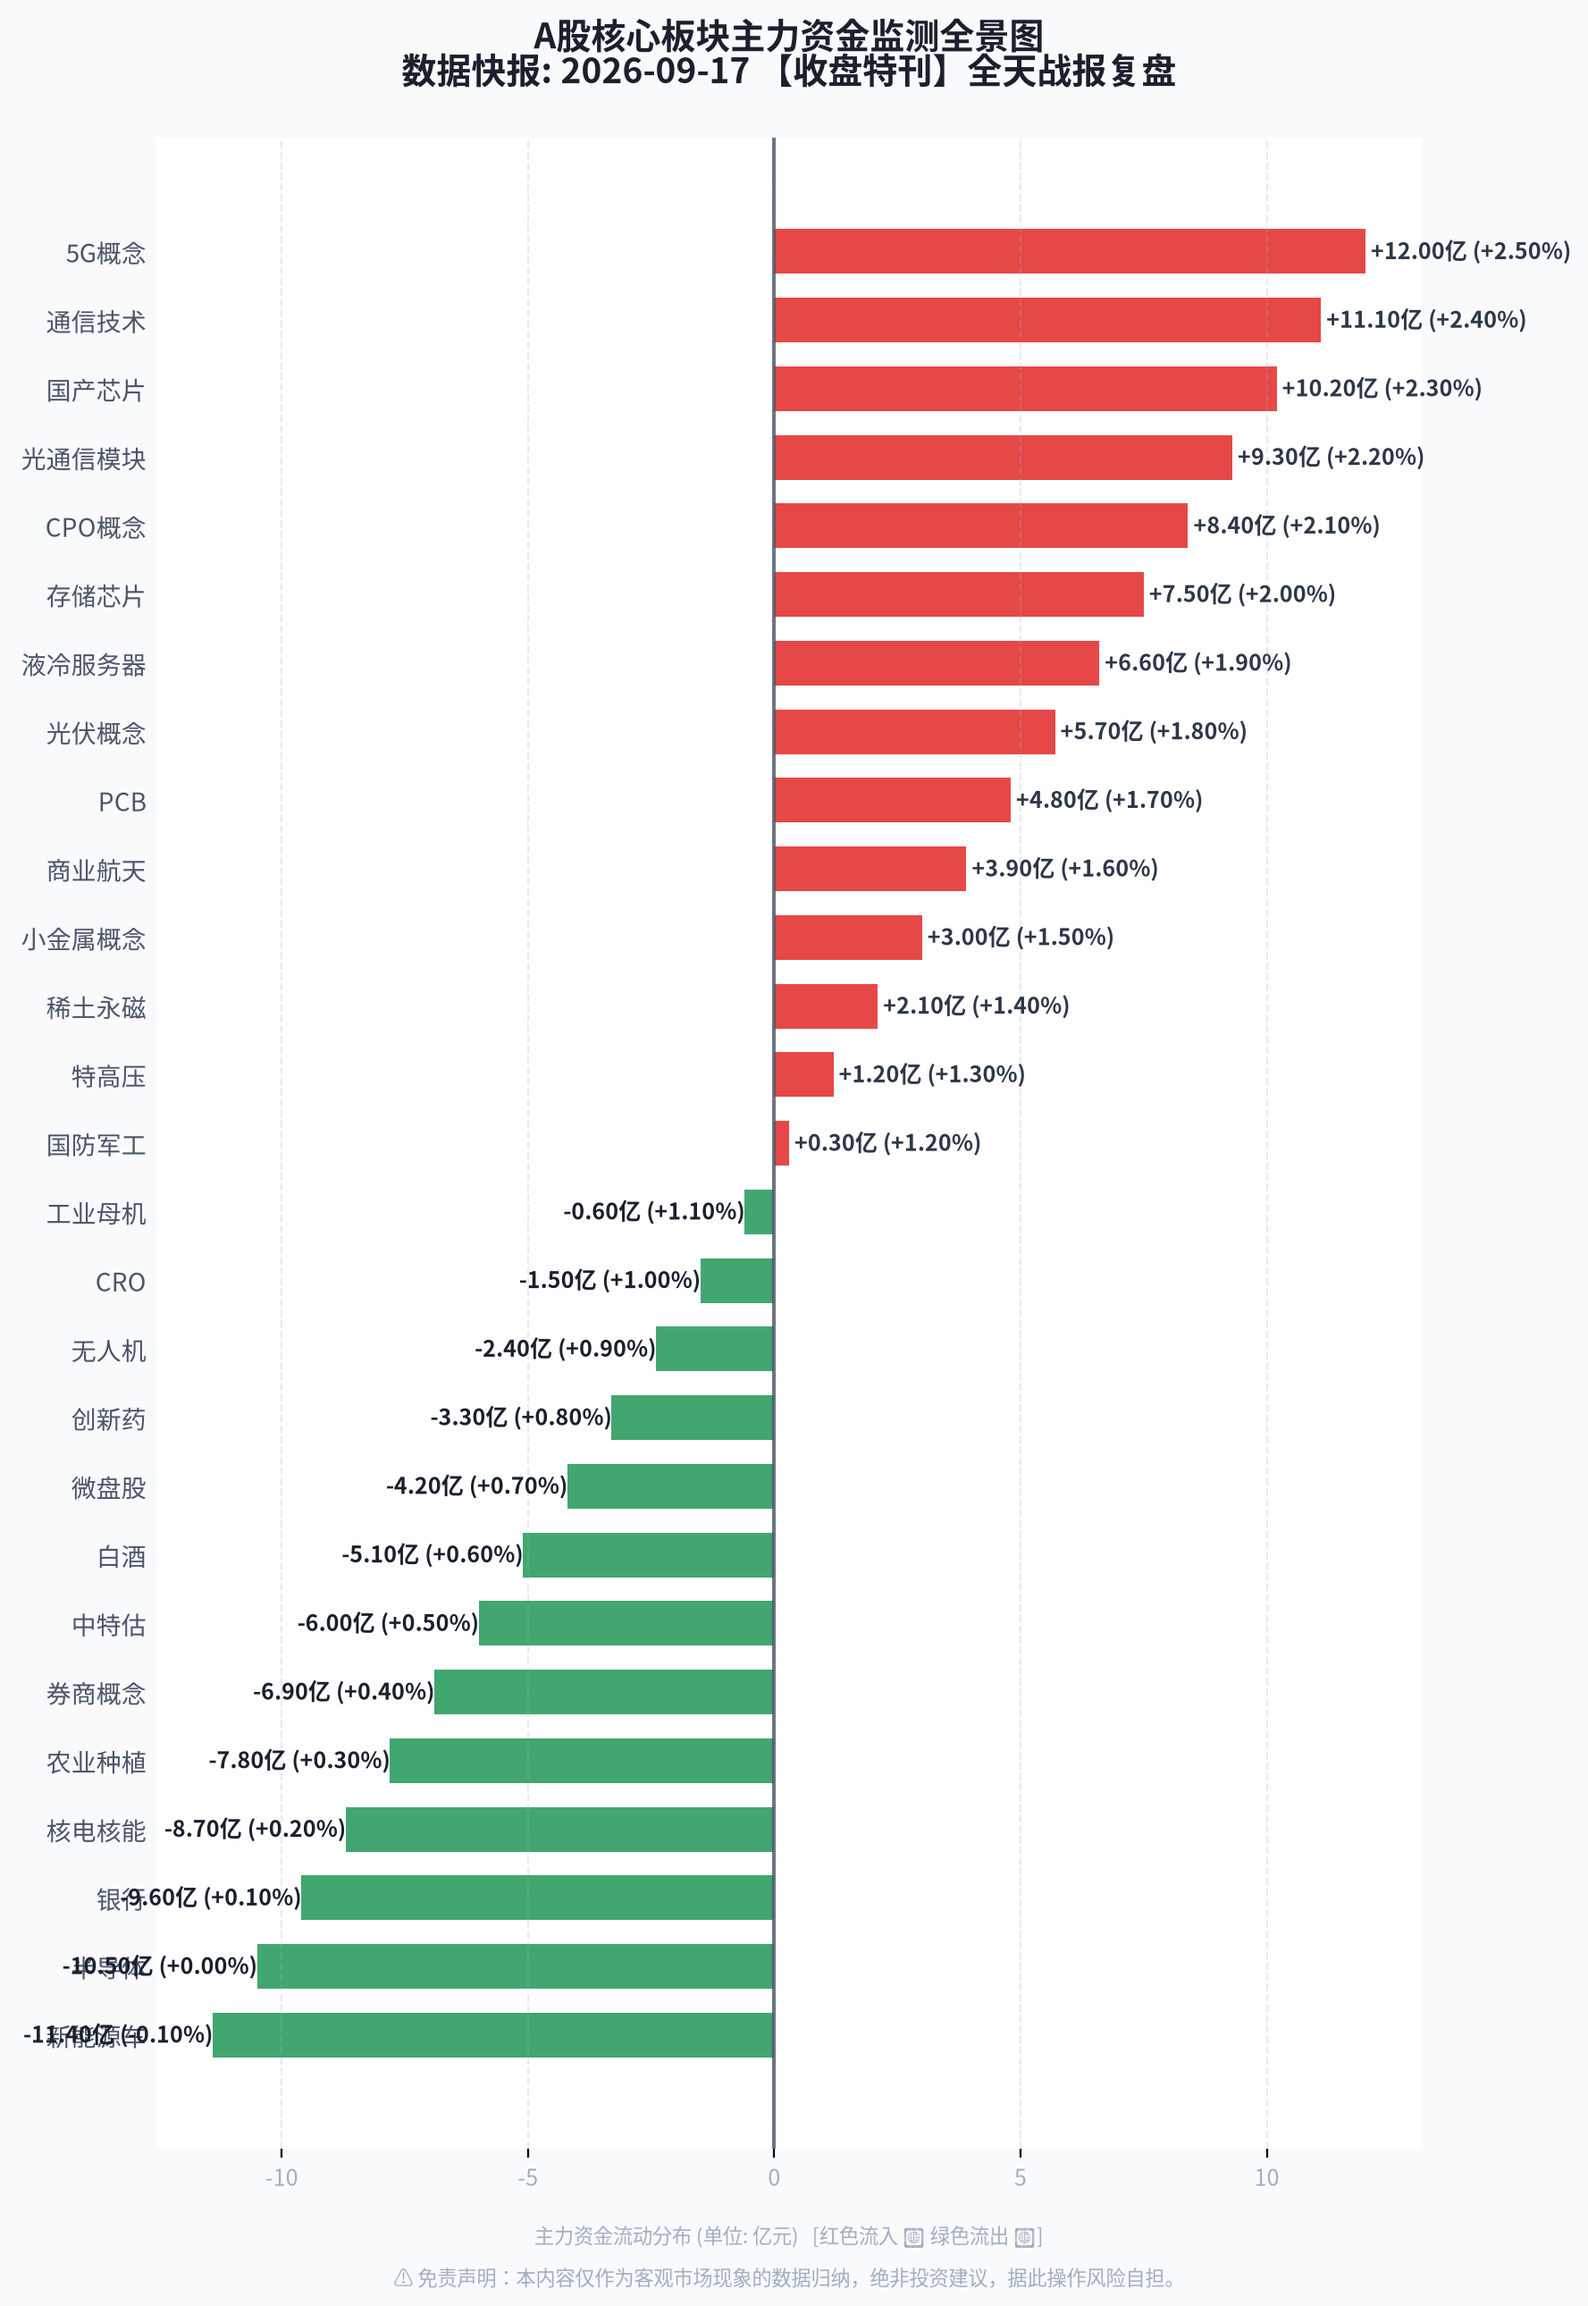
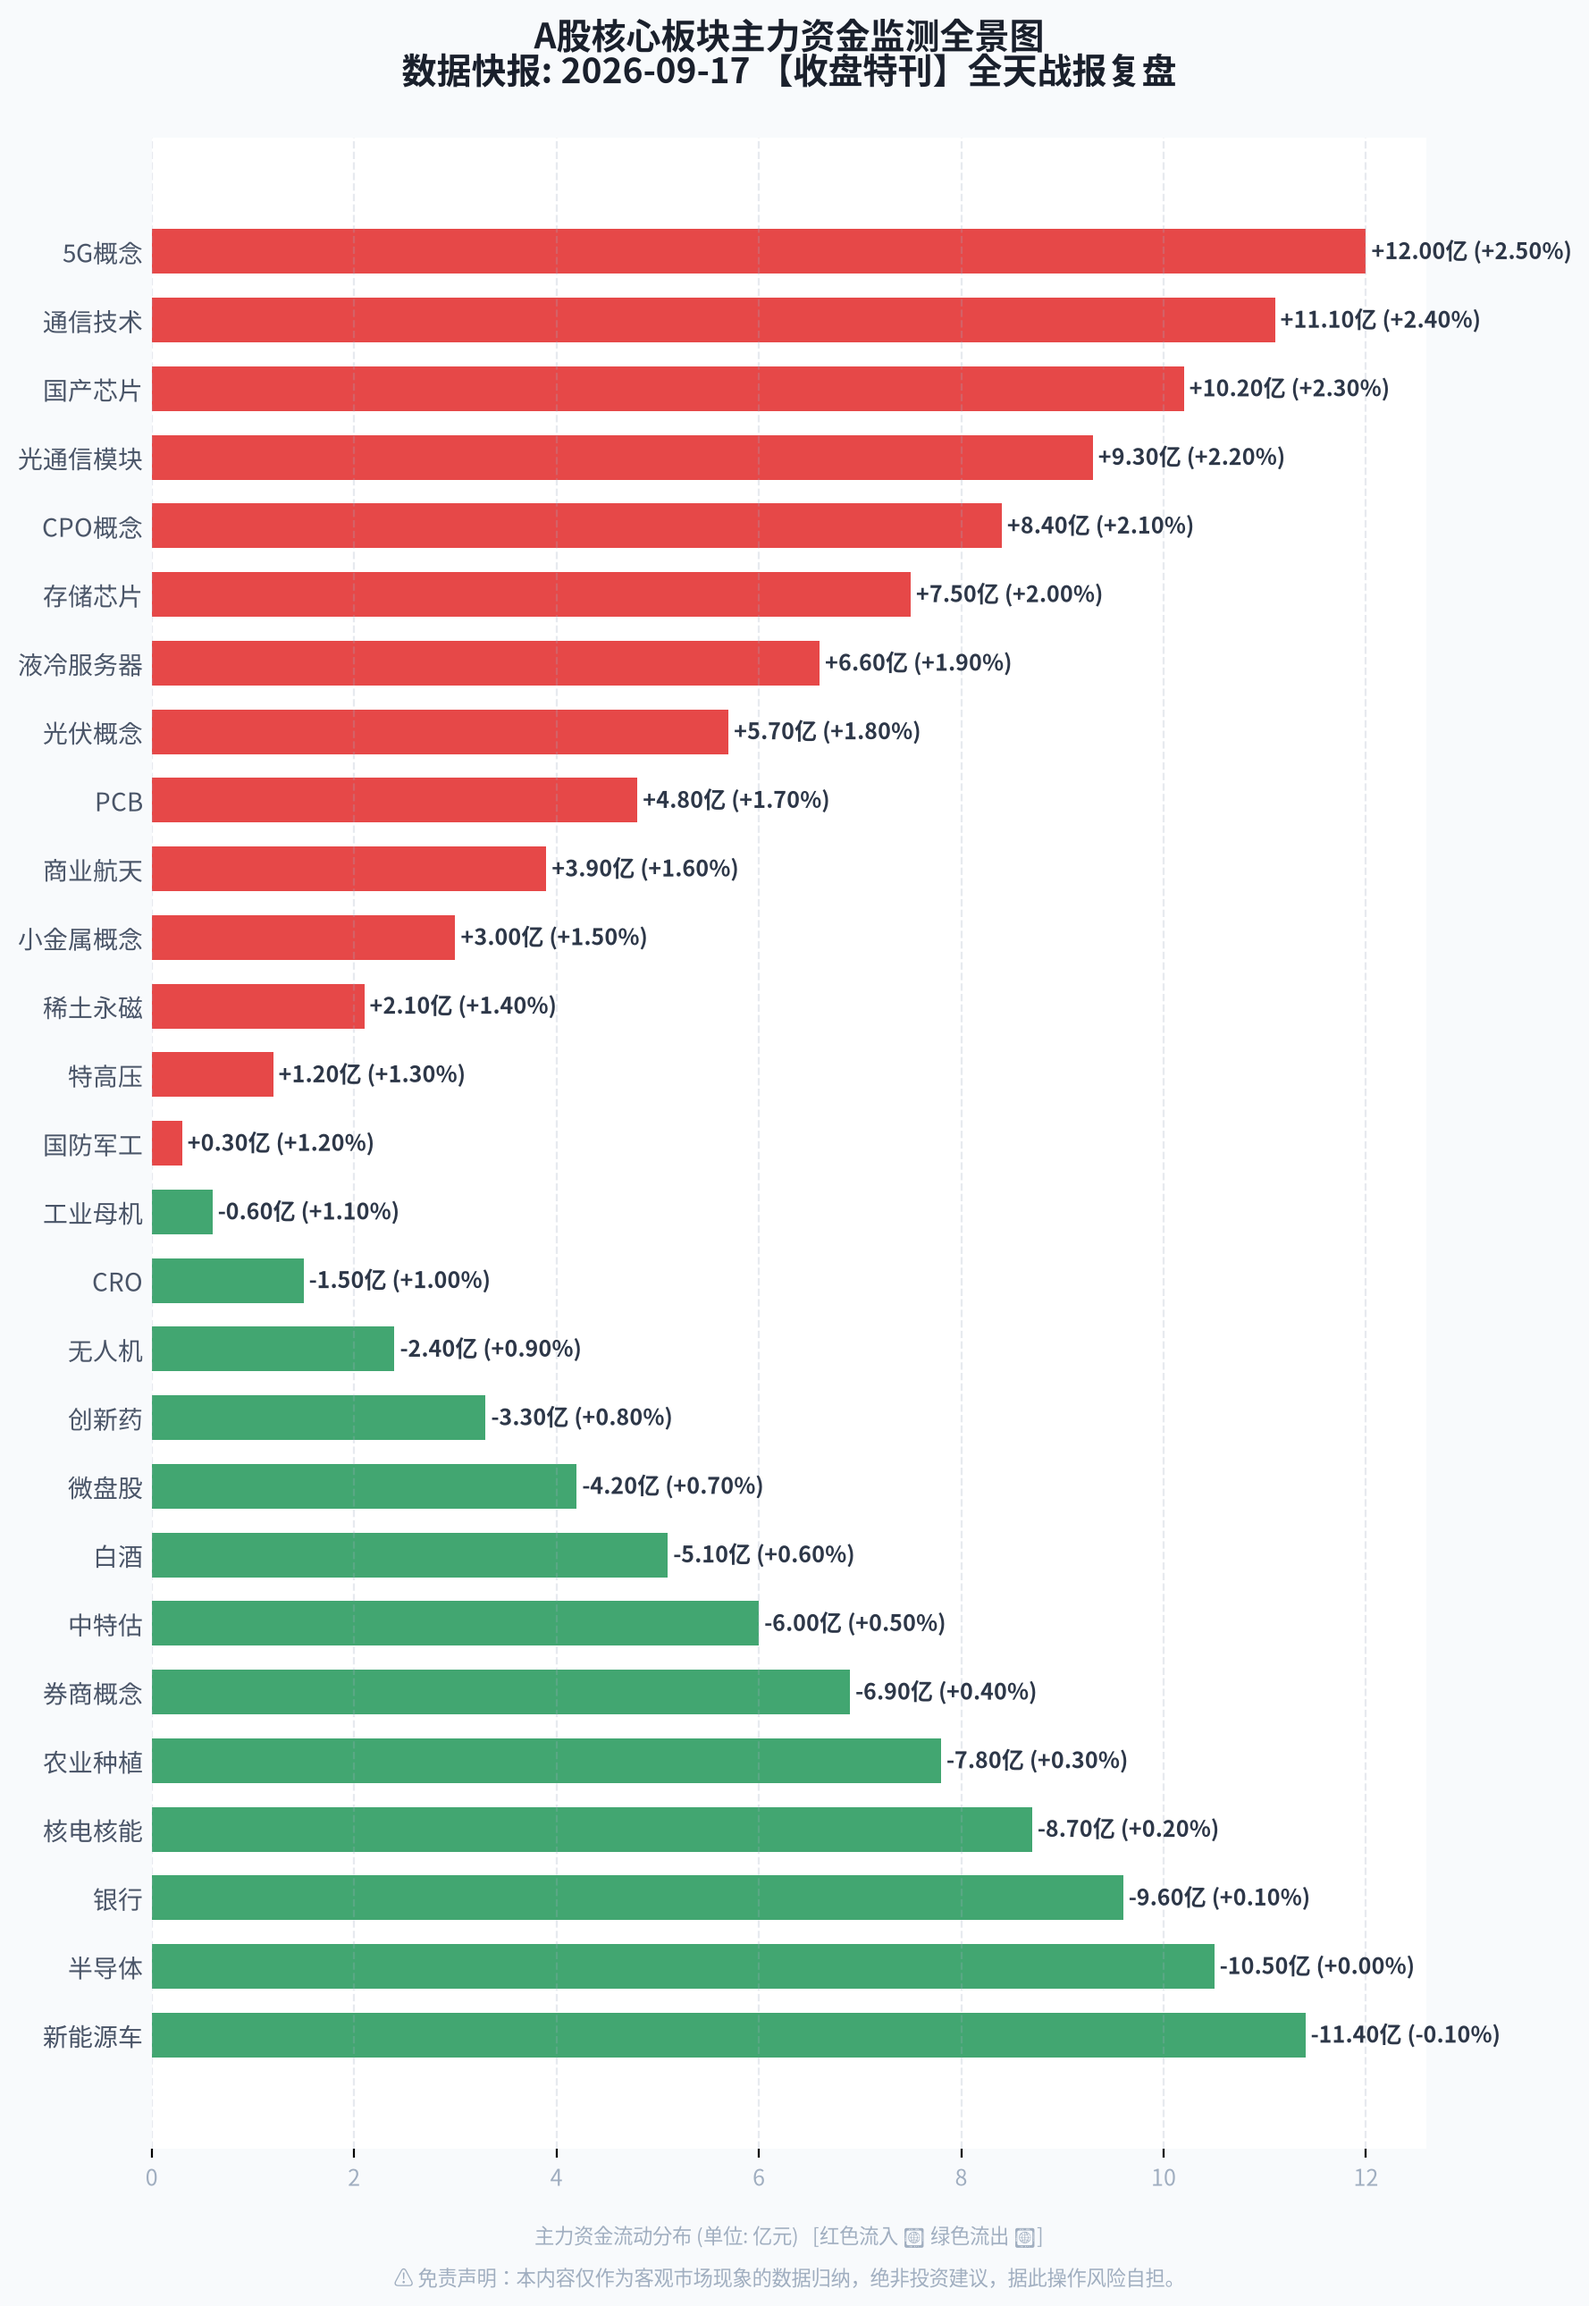
feat: 安装依赖并启动项目

diff --git a/main.py b/main.py
@@ -176,9 +176,9 @@ def generate_infographic_image(data_list, report_type):
     ax.set_facecolor('#ffffff')
     
     colors = ['#e53e3e' if x >= 0 else '#38a169' for x in flows]
-    bars = ax.barh(names, flows, color=colors, edgecolor='none', height=0.65, alpha=0.95)
-    
-    ax.axvline(0, color='#4a5568', linestyle='-', linewidth=1.5, alpha=0.8)
+    # 所有长条都画在正轴上(用绝对值),颜色区分方向
+    abs_flows = [abs(x) for x in flows]
+    bars = ax.barh(names, abs_flows, color=colors, edgecolor='none', height=0.65, alpha=0.95)
     
     for spine in ['top', 'right', 'bottom', 'left']:
         ax.spines[spine].set_visible(False)
@@ -187,15 +187,9 @@ def generate_infographic_image(data_list, report_type):
     
     for bar, flow, pct in zip(bars, flows, pcts):
         width = bar.get_width()
-        sign = "+" if flow >= 0 else ""
-        label_text = f" {sign}{flow:.2f}亿 ({pct:+.2f}%)"
-        
-        if flow >= 0:
-            ax.text(width, bar.get_y() + bar.get_height()/2, label_text,
-                    va='center', ha='left', fontsize=9, color='#2d3748', fontweight='bold')
-        else:
-            ax.text(width, bar.get_y() + bar.get_height()/2, label_text,
-                    va='center', ha='right', fontsize=9, color='#1a202c', fontweight='bold')
+        label_text = f" {flow:+.2f}亿 ({pct:+.2f}%)"
+        ax.text(width, bar.get_y() + bar.get_height()/2, label_text,
+                va='center', ha='left', fontsize=9, color='#2d3748', fontweight='bold')
 
     today_date = datetime.now().strftime("%Y-%m-%d")
     
